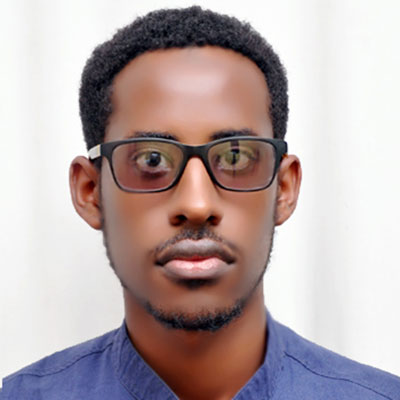
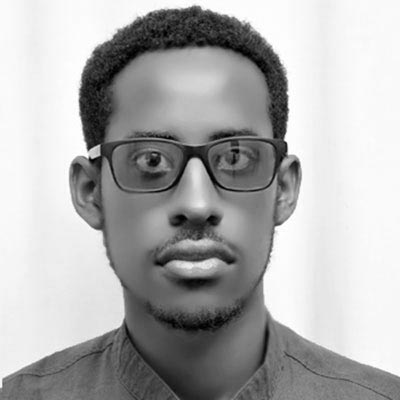
make photo modifications (black and white)

diff --git a/resources/views/index.blade.php b/resources/views/index.blade.php
@@ -19,7 +19,7 @@
 
     <!-- Icons Grid -->
     @guest()
-        <section class="features-icons bg-white text-center shadow-sm">
+        <section class="features-icons bg-white text-center shadow">
             @else
                 <section class="features-icons bg-light text-center">
                     @endguest
@@ -78,7 +78,7 @@
 
                 <section class="showcase mt-5">
                     <div class="container-fluid p-0">
-                        <h2 id="overview-title" class="text-center text-primary bg-white shadow-sm p-3 mb-5">
+                        <h2 id="overview-title" class="text-center text-primary bg-white shadow p-3 mb-5">
                             Overview</h2>
                         <div id="carouselGraphs" class="carousel slide">
                             <ol class="carousel-indicators mx-auto" style="width: 150px">
@@ -92,7 +92,7 @@
                                     data-target="#carouselGraphs" data-slide-to="2"
                                     class="bg-gradient-primary" style="width: 30%"></li>
                             </ol>
-                            <div class="carousel-inner card card-body shadow-sm rounded-0 px-md-5"
+                            <div class="carousel-inner card card-body shadow rounded-0 px-md-5"
                                  style="height: 550px; overflow-y: auto">
                                 <div class="carousel-item active">
                                     <div class="row px-md-5">
@@ -309,11 +309,11 @@
                     </div>
                 </section>
                 <section class="testimonials text-center bg-light" style="margin-bottom: -10px">
-                    <h2 id="people-title" class="text-center text-primary bg-white shadow-sm p-3 mb-5">Development
+                    <h2 id="people-title" class="text-center text-primary bg-white shadow p-3 mb-5">Development
                         Team</h2>
-                    <div class="card card-body shadow-sm p-0">
+                    <div class="card card-body p-0">
                         <div class="row">
-                            <div class="col-md-3 p-3">
+                            <div class="col-md-3 bg-light p-3">
                                 <div class="mx-auto mb-lg-0">
                                     <img class="img-fluid rounded-circle mb-3 shadow border border-secondary"
                                          src="{{asset('img/people/yoseph.jpg')}}" width="200px" height="200px"
@@ -322,7 +322,7 @@
                                     <p class="font-weight-light mb-0">Lead Software Engineer</p>
                                 </div>
                             </div>
-                            <div class="col-md-9 bg-light">
+                            <div class="col-md-9 pl-0 shadow">
                                 <div class="MultiCarousel" data-items="1,2,2,3" data-slide="2"
                                      id="MultiCarousel" data-interval="1000">
                                     <div class="MultiCarousel-inner">

diff --git a/resources/views/inc/footer.blade.php b/resources/views/inc/footer.blade.php
@@ -15,10 +15,6 @@
                     <li class="list-inline-item">
                         <a href="#">Terms of Use</a>
                     </li>
-                    <li class="list-inline-item">&sdot;</li>
-                    <li class="list-inline-item">
-                        <a href="#">Privacy Policy</a>
-                    </li>
                 </ul>
                 <p class="text-muted small mb-4 mb-lg-0">Copyright &copy; MoSHE - Ministry of Science and Higher
                     Education - Ethiopia - {{date("Y")}}</p>
@@ -26,18 +22,18 @@
             <div class="col-lg-6 h-100 text-center text-lg-right my-auto">
                 <ul class="list-inline mb-0">
                     <li class="list-inline-item mr-3">
-                        <a href="#">
+                        <a href="https://www.facebook.com/SHE.Ethio/" target="_blank">
                             <i class="fab fa-facebook fa-2x fa-fw"></i>
                         </a>
                     </li>
                     <li class="list-inline-item mr-3">
-                        <a href="#">
+                        <a href="https://twitter.com/she_ethiopia" target="_blank">
                             <i class="fab fa-twitter-square fa-2x fa-fw"></i>
                         </a>
                     </li>
                     <li class="list-inline-item">
-                        <a href="#">
-                            <i class="fab fa-instagram fa-2x fa-fw"></i>
+                        <a href="mailto:moshe@ethernet.edu.et" target="_blank">
+                            <i class="fas fa-envelope fa-2x fa-fw"></i>
                         </a>
                     </li>
                 </ul>

diff --git a/readme.md b/readme.md
@@ -1,4 +1,4 @@
-![Moe HEMIS](docs/logo.png)
+![Moe HEMIS](docs/github-logo.png)
 
 ## About HEMIS
 
